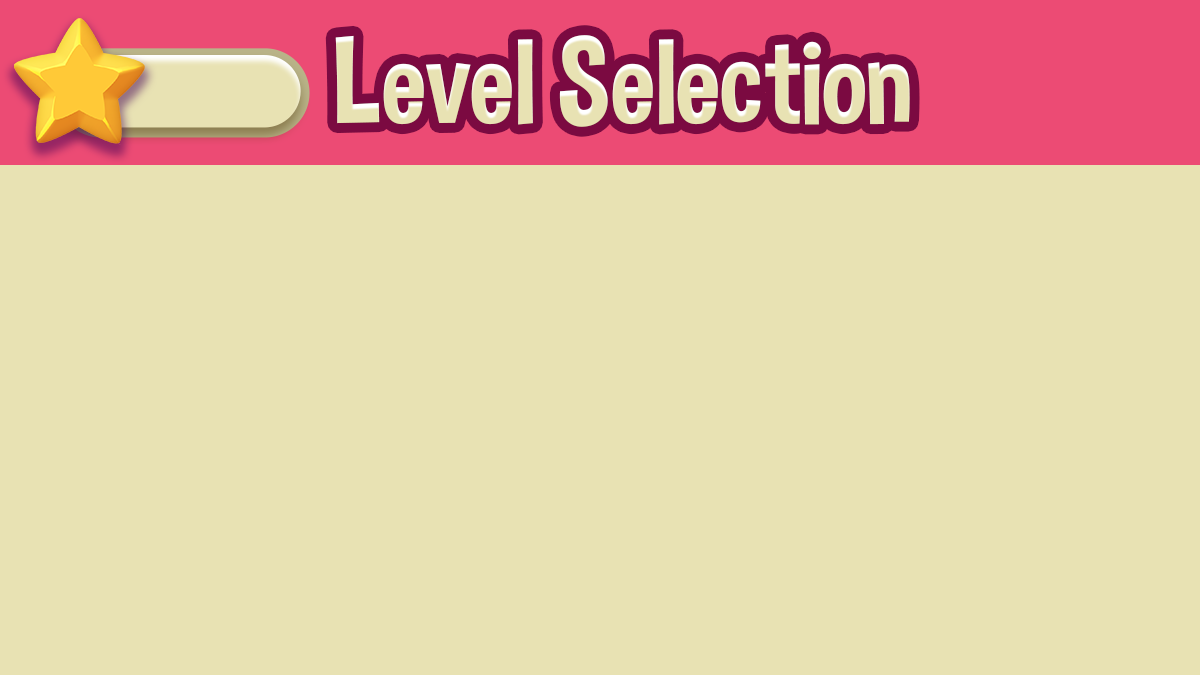
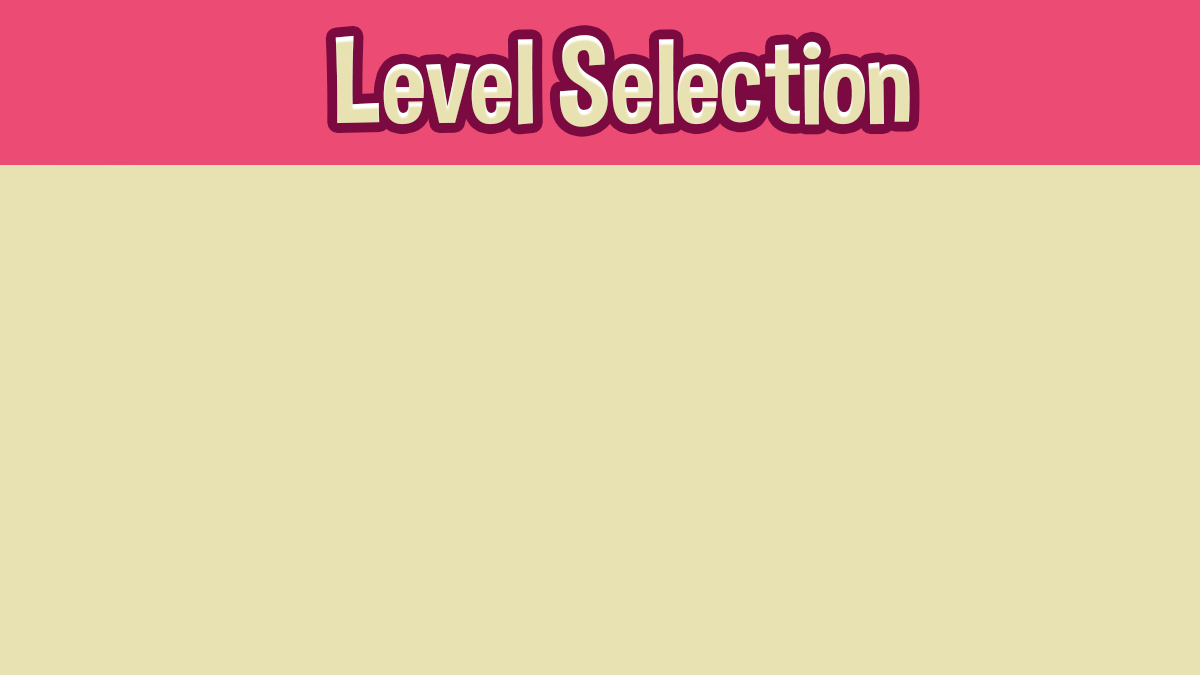
Fix bugs

Changed region(s): [[0.0, 0.0311, 0.2775, 0.2489]]

diff --git a/src/game/Character.java b/src/game/Character.java
@@ -19,7 +19,7 @@ import java.util.function.Consumer;
 import java.util.function.Predicate;
 
 public class Character {
-    private static int pixelPerMove = 15;
+    private static final int pixelPerMove = 15;
     private double percentPPMHeight;
     private double percentPPMWidth;
     private JLabel characterIcon = new JLabel();
@@ -32,6 +32,11 @@ public class Character {
     private HashMap<String, Boolean> interactable;
     private WindowFrame window;
     private BoundingArea map;
+    private JFrame refrigeratorFrame;
+    private JFrame drinkFrame;
+    private JFrame cuttingFrame;
+    private JFrame panFrame;
+    private JFrame potFrame;
 
     private String holdingItem = "";
 
@@ -84,22 +89,20 @@ public class Character {
 
     public void doAction() {
         if (Boolean.TRUE.equals(interactable.get("refrigerator"))) {
-            JFrame refrigeratorFrame = new RefrigeratorFrame(imageLoader, audioLoader, this::holdItem);
-            refrigeratorFrame.setVisible(true);
+            refrigeratorFrame = new RefrigeratorFrame(imageLoader, audioLoader, this::holdItem);
         }
         if (Boolean.TRUE.equals(interactable.get("Drinking")) && holdingItem.equals("")) {
-            JFrame waterFrame = new DrinkFrame(imageLoader, audioLoader, this::holdItem);
-            waterFrame.setVisible(true);
+            drinkFrame = new DrinkFrame(imageLoader, audioLoader, this::holdItem);
         }
         if (!holdingItem.equals("")) {
             if (Boolean.TRUE.equals(interactable.get("Cutting")) && imageLoader.has("cutting-" + holdingItem)) {
-                JFrame cuttingFrame = new CuttingFrame(imageLoader, audioLoader, holdingItem, this::holdItem);
+                cuttingFrame = new CuttingFrame(imageLoader, audioLoader, holdingItem, this::holdItem);
             }
             if (Boolean.TRUE.equals(interactable.get("pan")) && imageLoader.has("pan-" + holdingItem + "-1")) {
-                JFrame panFrame = new PanFrame(imageLoader, audioLoader, holdingItem, this::holdItem);
+                panFrame = new PanFrame(imageLoader, audioLoader, holdingItem, this::holdItem);
             }
             if (Boolean.TRUE.equals(interactable.get("pot")) && imageLoader.has("pot-" + holdingItem + "-1")) {
-                JFrame potFrame = new PotFrame(imageLoader, audioLoader, holdingItem, this::holdItem);
+                potFrame = new PotFrame(imageLoader, audioLoader, holdingItem, this::holdItem);
             }
             if (Boolean.TRUE.equals(interactable.get("trash"))) {
                 holdItem("");
@@ -124,5 +127,13 @@ public class Character {
             cm.setIcon(characterIcon, imageLoader.getIcon("avatar-" + holdingItem));
         }
         cm.recalculateIcon(characterIcon);
+    }
+
+    public void gameEnd() {
+        if (refrigeratorFrame != null) refrigeratorFrame.dispose();
+        if (drinkFrame != null) drinkFrame.dispose();
+        if (cuttingFrame != null) cuttingFrame.dispose();
+        if (panFrame != null) panFrame.dispose();
+        if (potFrame != null) potFrame.dispose();
     }
 }

diff --git a/src/utility/animation/Animation.java b/src/utility/animation/Animation.java
@@ -7,14 +7,14 @@ import java.util.function.Consumer;
 import java.util.function.Supplier;
 
 public class Animation {
-    private Consumer<Double> valueSetter;
-    private Supplier<Number> valueGetter;
+    private final Consumer<Double> valueSetter;
+    private final Supplier<Number> valueGetter;
     private long lastAnimatedTime;
     private long startTime;
-    private int totalAnimateTime;
-    private double endValue;
+    private final int totalAnimateTime;
+    private final double endValue;
     private double startValue;
-    private AnimationMap easingEffect;
+    private final AnimationMap easingEffect;
     private boolean stopFlag;
 
     public Animation(Consumer<Animation> addAnimation, Consumer<Double> setter, Supplier<Number> getter, AnimationMap easing, double to, int time) {

diff --git a/src/game/scenes/SeletionLv.java b/src/game/scenes/SeletionLv.java
@@ -8,7 +8,6 @@ import utility.cm.CMFlag;
 import utility.loader.ImageLoader;
 
 import javax.swing.*;
-import java.awt.*;
 import java.util.Arrays;
 import java.util.stream.Collectors;
 import java.util.stream.IntStream;
@@ -43,13 +42,6 @@ public class SeletionLv extends Scene {
         ImageLoader imageLoader = getImageLoader();
 
         changeBackground(getImageLoader().getIcon("seletion"));
-
-        JLabel totalStar = new JLabel();
-        totalStar.setText("10/30");
-        totalStar.setFont(new Font("Dimbo", Font.PLAIN, 75));
-
-        cm.setBounds(totalStar, CM.grid(12, -1.5, CM.size(25, CMFlag.BY_H)));
-        add(totalStar);
 
         JButton backBtn = new JButton();
         cm.setIcon(backBtn, getImageLoader().getIcon("closebtn"), CM.size(13, CMFlag.BY_H));

diff --git a/src/game/scenes/GameScene.java b/src/game/scenes/GameScene.java
@@ -441,7 +441,6 @@ public class GameScene extends Scene {
 
         int level = (int) getController().getState("level");
         IntStream.range(0, level).forEach(i -> allOrder.addAll(Arrays.asList(Data.orderList[i])));
-        System.out.println(allOrder.get(allOrder.size() - 1));
 
         remainingTime = Data.totalTimeList[(int) getController().getState("difficulty") - 1];
         timer = Utility.setInterval(
@@ -467,7 +466,7 @@ public class GameScene extends Scene {
     @Override
     public void onStop() {
         getAudioLoader().get("theme").stop();
-        getAudioLoader().get("boil1").stop();
+        getAudioLoader().get("boil").stop();
         timer.run();
         orderTimer.run();
     }

diff --git a/src/MainApplication.java b/src/MainApplication.java
@@ -1,16 +1,10 @@
-import game.scenes.FirstSceneTest;
-import game.scenes.MenuScene;
-import game.scenes.SeletionLv;
-import game.scenes.GameScene;
-import game.scenes.Result;
-import game.scenes.SettingScene;
+import game.scenes.*;
 import utility.Utility;
 
 public class MainApplication {
     public static void main(String[] args) {
         GameController gameController = new GameController();
 
-        gameController.addScene("first", FirstSceneTest.class);
         gameController.addScene("menu", MenuScene.class);
         gameController.addScene("SeletionLv", SeletionLv.class);
         gameController.addScene("gameScene", GameScene.class);

diff --git a/src/game/frames/CuttingFrame.java b/src/game/frames/CuttingFrame.java
@@ -7,7 +7,6 @@ import utility.cm.CMFlag;
 import utility.loader.AudioLoader;
 import utility.loader.ImageLoader;
 
-import javax.sound.sampled.Clip;
 import javax.swing.*;
 import java.awt.*;
 import java.awt.event.MouseAdapter;
@@ -17,8 +16,8 @@ import java.awt.event.MouseMotionListener;
 import java.util.function.Consumer;
 
 public class CuttingFrame extends JFrame implements MouseMotionListener {
-    static final int width = 1400;
-    static final int height = 900;
+    static final int width = 700;
+    static final int height = 450;
 
     JLabel cursor = new JLabel();
 

diff --git a/src/utility/animation/AnimationMap.java b/src/utility/animation/AnimationMap.java
@@ -77,8 +77,8 @@ class CubicBezier {
 }
 
 class AData implements Comparable<AData> {
-    private double _percentage;
-    private double _valuePercentage;
+    private final double _percentage;
+    private final double _valuePercentage;
 
     AData(double percentage, double valuePercentage) {
         _percentage = percentage;
@@ -228,7 +228,7 @@ public enum AnimationMap {
             new AData(100, 100),
     });
 
-    private AData[] animationData;
+    private final AData[] animationData;
     private CubicBezier cubicBezier;
 
     AnimationMap(AData[] data) {

diff --git a/src/game/frames/DrinkFrame.java b/src/game/frames/DrinkFrame.java
@@ -12,8 +12,8 @@ import java.awt.*;
 import java.util.function.Consumer;
 
 public class DrinkFrame extends JFrame {
-    static final int width = 1200;
-    static final int height = 800;
+    static final int width = 900;
+    static final int height = 600;
     private String currentSize = "";
     private String currentDrink = "";
     private boolean filled = false;

diff --git a/src/game/frames/PanFrame.java b/src/game/frames/PanFrame.java
@@ -12,8 +12,8 @@ import javax.swing.*;
 import java.util.function.Consumer;
 
 public class PanFrame extends JFrame {
-    static final int width = 1200;
-    static final int height = 700;
+    static final int width = 900;
+    static final int height = 525;
 
     private boolean turnedOn = false;
     private boolean cooking = false;

diff --git a/src/game/frames/PotFrame.java b/src/game/frames/PotFrame.java
@@ -12,8 +12,8 @@ import javax.swing.*;
 import java.util.function.Consumer;
 
 public class PotFrame extends JFrame {
-    static final int width = 1200;
-    static final int height = 700;
+    static final int width = 900;
+    static final int height = 525;
 
     private boolean turnedOn = false;
     private boolean cooking = false;

diff --git a/src/base/WindowFrame.java b/src/base/WindowFrame.java
@@ -10,6 +10,7 @@ public class WindowFrame extends JFrame {
     public WindowFrame(String title, Dimension size, Point position) {
         setTitle(title);
         setBounds(position.x, position.y, size.width, size.height);
+        setResizable(false);
 
         getContentPane().setLayout(new BorderLayout());
 

diff --git a/src/game/scenes/LoadingScene.java b/src/game/scenes/LoadingScene.java
@@ -11,7 +11,7 @@ public class LoadingScene extends Scene {
 
     @Override
     public void init() {
-        changeBackground("resources/Loadingnarak.png");
+        changeBackground("resources/Loading.png");
         ready();
     }
 
